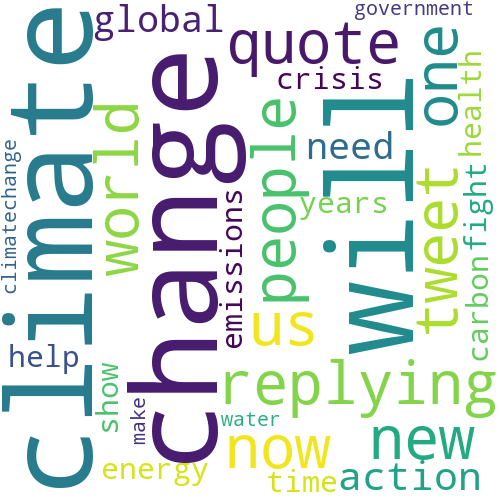
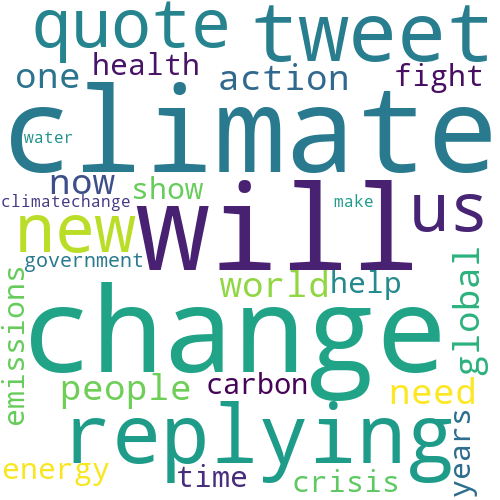
adding text to plots

diff --git a/Project_Work/Scripts/pages/Correlation with Population.py b/Project_Work/Scripts/pages/Correlation with Population.py
@@ -1,13 +1,7 @@
 import pandas as pd
-import numpy as np
-import plotly.express as px
-import plotly.graph_objects as go
-import pycountry
-import geopandas
-import os
 import sys
-import streamlit as st
 import logging
+import streamlit as st
 
 sys.path.insert(0, '../')
 
@@ -15,8 +9,7 @@ import population_data_preprocessing
 import co2_data_preprocessing
 import draw_scatter_plot
 import draw_correlation_plot
-import temp_analysis
-import buzz_words
+
 
 
 def population_analysis():
@@ -40,10 +33,16 @@ def population_analysis():
     logging.info('Shape of CO2 Data after cleaning ' + str(co2_data.shape))
     # Create Correlation Plot
     logging.info('Correlation Plot function called')
+    st.subheader("Correlation between Population and CO2 emission")
+    'The plot tells us correlation between Population and CO2 levels for every country.'
+    'For 80.32% countries we have a positive correlation between CO2 and Population with the ' \
+    'highest for Qatar with 0.9958'
     draw_correlation_plot.correlation_plot(population_data, co2_data)
+    'The plot is based on temperature and population data studied between 1997 and 2019'
     logging.info('Correlation Plot function ended')
     # Create scatter plot Total
     logging.info('Scatter Plot for total population function called')
+    st.subheader("Distribution of countries based on CO2 emission and Population")
     draw_scatter_plot.scatter_plot(population_data, co2_data)
 
 population_analysis()

diff --git a/Project_Work/Scripts/pages/Buzz Words on Twitter.py b/Project_Work/Scripts/pages/Buzz Words on Twitter.py
@@ -48,7 +48,10 @@ def get_buzz_words():
     plt.imshow(wordcloud)
     plt.axis("off")
     plt.tight_layout(pad=0)
-    plt.savefig('../Data/buzz_words.png')
+    #plt.savefig('../Data/buzz_words.png')
+    st.subheader('Most used words around climate change')
+    'Analysis on tweets data showing some of the most used words around climate change. Size of the words show ' \
+    'its frequency with the largest being the most used word'
     st.image('../Data/buzz_words.png')
     #plt.show()
 

diff --git a/Project_Work/Scripts/Homepage.py b/Project_Work/Scripts/Homepage.py
@@ -1,23 +1,5 @@
-import pandas as pd
-import numpy as np
-import plotly.express as px
-import plotly.graph_objects as go
-import pycountry
-import geopandas
-import os
-import sys
 import streamlit as st
-import logging
 
-import population_data_preprocessing
-import co2_data_preprocessing
-import draw_scatter_plot
-import draw_correlation_plot
-import temp_analysis
-import buzz_words
-import population
-import gdp
-import political
 
 st.set_page_config(
     page_title="Project ECE 143",

diff --git a/Project_Work/Scripts/draw_correlation_plot.py b/Project_Work/Scripts/draw_correlation_plot.py
@@ -1,14 +1,7 @@
 # draw_correlation_plot.py
 
 import pandas as pd
-import numpy as np
 import plotly.express as px
-import plotly.graph_objects as go
-import pycountry
-import geopandas
-import folium
-from folium.plugins import HeatMap, HeatMapWithTime
-from datetime import datetime, timedelta
 import streamlit as st
 
 def plot(df):
